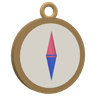
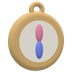
เมนู: ไอคอนวัตถุ 3D มนนุ่ม ขนาด 22px · เมนูเดี่ยว (หน้าแรก · สร้าง ticket · Presentation · Character) หน้าตาเท่าหัวหมวด · Namon ตาน่ารักแปะบนผิวตัว

Changed region(s): [[0.1111, 0.0278, 0.8889, 1.0]]

diff --git a/namon/namon-agent.js b/namon/namon-agent.js
@@ -12,8 +12,14 @@ const mesh = (g, m, cast = true) => { const o = new THREE.Mesh(g, m); o.castShad
 function blob(a = 0.98, b = 1.2, n = 2.25, seg = 96) {
   const pts = []
   for (let i = 0; i <= seg; i++) { const t = -Math.PI / 2 + (i / seg) * Math.PI, c = Math.cos(t), s = Math.sin(t); const x = a * Math.pow(Math.abs(c), 2 / n), y = b * Math.sign(s) * Math.pow(Math.abs(s), 2 / n); pts.push(new THREE.Vector2(Math.max(x, 0.0001) * (1 + 0.13 * (1 - (y + b) / (2 * b))), y + b + 0.16)) }
+  BLOB_PTS = pts
   return new THREE.LatheGeometry(pts, 128)
 }
+let BLOB_PTS = null
+const ZS = 0.86
+// จุดบนผิวตัว ณ (x, y) ด้านหน้า → ให้ตา แก้ม ปาก แปะบนผิวจริง (ผู้ใช้ 21 พ.ย. 69 "ตาต้องแปะอยู่บนก้อนสีน้ำเงิน")
+function radiusAt(y) { const P = BLOB_PTS; for (let i = 1; i < P.length; i++) { if ((P[i - 1].y - y) * (P[i].y - y) <= 0) { const t = (y - P[i - 1].y) / ((P[i].y - P[i - 1].y) || 1); return P[i - 1].x + (P[i].x - P[i - 1].x) * t } } return 0.5 }
+function onSurface(obj, x, y, lift = 0) { const r = radiusAt(y), zz = Math.sqrt(Math.max(0.0001, r * r - x * x)); obj.position.set(x, y, zz * ZS + lift); const ny = (radiusAt(y + 0.02) - radiusAt(y - 0.02)) / 0.04; obj.rotation.y = Math.atan2(x, zz * ZS); obj.rotation.x = -Math.atan(ny) * 0.9; return obj }
 
 
 // ของในมือ — จับคู่กับงานของ agent (ผู้ใช้ 21 พ.ย. 69 · แรงบันดาลใจ "ALL 16 TYPES")
@@ -31,22 +37,36 @@ export const PROPS = {
   mouse: { th: 'เมาส์', role: 'ทดสอบ usability' },
   flower: { th: 'ดอกไม้', role: 'ขอบคุณ / เสร็จงาน' },
 }
+
+// กล่องขอบมน (soft clay) — extrude สี่เหลี่ยมมุมมน + bevel
+function rbox(w, h, d, r = 0.06) {
+  r = Math.min(r, w / 2 - 0.001, h / 2 - 0.001, d / 2 - 0.001)
+  const x = w / 2 - r, y = h / 2 - r, sh = new THREE.Shape(), k = r * 0.6
+  sh.moveTo(-x, -y - 0.0001); sh.lineTo(x, -y - 0.0001); sh.lineTo(x, y); sh.lineTo(-x, y); sh.lineTo(-x, -y - 0.0001)
+  const g = new THREE.ExtrudeGeometry(sh, { depth: Math.max(0.001, d - 2 * r), bevelEnabled: true, bevelThickness: r, bevelSize: r, bevelSegments: 8, curveSegments: 8 })
+  g.translate(0, 0, -(d - 2 * r) / 2); g.computeVertexNormals(); return g
+}
+function rtri(w, h, d, r = 0.06) {
+  const sh = new THREE.Shape(); sh.moveTo(-w / 2 + r, 0); sh.lineTo(w / 2 - r, 0); sh.lineTo(0, h - r); sh.lineTo(-w / 2 + r, 0)
+  const g = new THREE.ExtrudeGeometry(sh, { depth: Math.max(0.001, d - 2 * r), bevelEnabled: true, bevelThickness: r, bevelSize: r, bevelSegments: 8 }); g.translate(0, 0, -(d - 2 * r) / 2); g.computeVertexNormals(); return g
+}
 function makeProp(id) {
   const g = new THREE.Group(), M = (c, o = {}) => clay(c, { roughness: 0.5, ...o })
   const add = (geo, mat, x = 0, y = 0, z = 0, rx = 0, ry = 0, rz = 0) => { const m = mesh(geo, mat); m.position.set(x, y, z); m.rotation.set(rx, ry, rz); g.add(m); return m }
-  if (id === 'magnifier') { add(new THREE.TorusGeometry(0.26, 0.05, 20, 48), M(0x2B2F5E), 0, 0.2, 0); add(new THREE.CircleGeometry(0.24, 40), new THREE.MeshPhysicalMaterial({ color: 0xDDEBFF, transparent: true, opacity: 0.45, roughness: 0.05 }), 0, 0.2, 0.01); add(new THREE.CylinderGeometry(0.045, 0.055, 0.5, 20), M(0x2B2F5E), 0.27, -0.2, 0, 0, 0, 0.6) }
-  if (id === 'paintbrush') { add(new THREE.CylinderGeometry(0.05, 0.07, 1.1, 20), M(0xC9814A), 0, 0, 0, 0, 0, -0.6); add(new THREE.CylinderGeometry(0.07, 0.07, 0.16, 20), M(0xC9CED6, { metalness: 0.5, roughness: 0.3 }), 0.32, 0.46, 0, 0, 0, -0.6); add(new THREE.ConeGeometry(0.08, 0.26, 20), M(0xE0607E), 0.43, 0.63, 0, 0, 0, -0.6) }
-  if (id === 'wrench') { const mt = M(0xB8BEC8, { metalness: 0.6, roughness: 0.3 }); add(new THREE.BoxGeometry(0.13, 0.9, 0.07), mt, 0, 0, 0, 0, 0, -0.5); const hd = add(new THREE.TorusGeometry(0.15, 0.07, 16, 32, Math.PI * 1.4), mt, 0.27, 0.43, 0, 0, 0, -0.5 + Math.PI * 0.8) }
-  if (id === 'book') { add(new THREE.BoxGeometry(0.75, 0.55, 0.14), M(0xE0607E), 0, 0, 0); add(new THREE.BoxGeometry(0.7, 0.5, 0.13), M(0xFFF8EE), 0.02, 0, 0.01); add(new THREE.BoxGeometry(0.75, 0.55, 0.02), M(0xC94A6A), 0, 0, 0.08) }
-  if (id === 'camera') { add(new THREE.BoxGeometry(0.72, 0.46, 0.3), M(0x2B2F5E), 0, 0, 0); add(new THREE.CylinderGeometry(0.15, 0.17, 0.18, 32), M(0x15171C, { roughness: 0.2 }), 0, -0.01, 0.22, Math.PI / 2); add(new THREE.CircleGeometry(0.11, 32), new THREE.MeshPhysicalMaterial({ color: 0x5C7BFF, roughness: 0.05, clearcoat: 1 }), 0, -0.01, 0.315); add(new THREE.BoxGeometry(0.16, 0.08, 0.12), M(0xC9CED6), -0.2, 0.27, 0) }
-  if (id === 'coffee') { add(new THREE.CylinderGeometry(0.4, 0.4, 0.04, 40), M(0xFFFFFF), 0, -0.2, 0); add(new THREE.CylinderGeometry(0.22, 0.17, 0.3, 32), M(0xFFFFFF), 0, -0.03, 0); add(new THREE.CircleGeometry(0.2, 32), M(0x6B4226), 0, 0.125, 0, -Math.PI / 2); add(new THREE.TorusGeometry(0.08, 0.025, 12, 24), M(0xFFFFFF), 0.24, -0.02, 0) }
-  if (id === 'map') { const cols = [0xF1E6C8, 0xE8DAB2, 0xF1E6C8]; [-0.27, 0, 0.27].forEach((x, i) => { add(new THREE.BoxGeometry(0.27, 0.62, 0.02), M(cols[i]), x, 0, i === 1 ? -0.04 : 0, 0, i === 1 ? 0 : (i ? -0.25 : 0.25)) }); [[-0.2, 0.1], [0.05, -0.08], [0.25, 0.14]].forEach(([x, y]) => add(new THREE.SphereGeometry(0.07, 16, 12), M(0x7BD8A4), x, y, 0.03).scale.set(1.4, 1, 0.3)) }
-  if (id === 'compass') { add(new THREE.CylinderGeometry(0.32, 0.32, 0.08, 40), M(0xC9A26A, { metalness: 0.4 }), 0, 0, 0, Math.PI / 2); add(new THREE.CircleGeometry(0.27, 40), M(0xFFF8EE), 0, 0, 0.045); add(new THREE.ConeGeometry(0.05, 0.22, 4), M(0xE0607E), 0, 0.1, 0.06); add(new THREE.ConeGeometry(0.05, 0.22, 4), M(0x5C7BFF), 0, -0.1, 0.06, 0, 0, Math.PI); add(new THREE.TorusGeometry(0.06, 0.02, 10, 20), M(0xC9A26A), 0, 0.37, 0) }
-  if (id === 'mic') { add(new THREE.SphereGeometry(0.17, 24, 18), M(0x9AA1AD, { metalness: 0.5, roughness: 0.35 }), 0.15, 0.32, 0); add(new THREE.CylinderGeometry(0.06, 0.05, 0.6, 20), M(0x15171C), 0, 0, 0, 0, 0, 0.45) }
-  if (id === 'chess') { const k = M(0x3B2A2A); add(new THREE.CylinderGeometry(0.24, 0.28, 0.12, 32), k, 0, -0.42, 0); add(new THREE.CylinderGeometry(0.12, 0.22, 0.5, 32), k, 0, -0.12, 0); add(new THREE.SphereGeometry(0.16, 24, 18), k, 0, 0.2, 0); add(new THREE.BoxGeometry(0.06, 0.2, 0.06), k, 0, 0.42, 0); add(new THREE.BoxGeometry(0.16, 0.06, 0.06), k, 0, 0.44, 0) }
-  if (id === 'mouse') { const mo = add(new THREE.SphereGeometry(0.25, 32, 24), M(0xF4F4F6), 0, 0, 0); mo.scale.set(0.8, 1.2, 0.55); add(new THREE.BoxGeometry(0.02, 0.14, 0.05), M(0xC9CED6), 0, 0.17, 0.13); add(new THREE.TorusGeometry(0.2, 0.015, 8, 24, Math.PI), M(0xC9CED6), 0.18, 0.28, 0) }
-  if (id === 'flower') { add(new THREE.CylinderGeometry(0.025, 0.03, 0.8, 12), M(0x6BAE3C), 0, -0.1, 0); for (let i = 0; i < 6; i++) { const a = (i / 6) * Math.PI * 2; add(new THREE.SphereGeometry(0.1, 20, 14), M(0xF58FB5), Math.cos(a) * 0.13, 0.36 + Math.sin(a) * 0.13, 0).scale.set(1, 1, 0.45) } add(new THREE.SphereGeometry(0.08, 20, 14), M(0xFFD66B), 0, 0.36, 0.03); add(new THREE.SphereGeometry(0.09, 16, 12), M(0x7BC24A), 0.1, -0.05, 0).scale.set(1.6, 0.6, 0.4) }
-  if (id === 'house') { add(new THREE.BoxGeometry(0.62, 0.46, 0.5), M(0xFFF3E2), 0, -0.12, 0); const roof = add(new THREE.ConeGeometry(0.55, 0.36, 4), M(0xE0607E), 0, 0.29, 0, 0, Math.PI / 4, 0); roof.scale.set(1, 1, 0.8); add(new THREE.BoxGeometry(0.16, 0.26, 0.04), M(0x5C7BFF), 0, -0.22, 0.26); add(new THREE.BoxGeometry(0.13, 0.13, 0.03), M(0xC6F432), 0.18, -0.06, 0.26) }
+  const cap = (r, len, c, x, y, z, rz = 0) => add(new THREE.CapsuleGeometry(r, len, 10, 24), M(c), x, y, z, 0, 0, rz)
+  if (id === 'magnifier') { add(new THREE.TorusGeometry(0.24, 0.085, 24, 48), M(0x6C7BF2), 0, 0.2, 0); add(new THREE.SphereGeometry(0.2, 32, 24), new THREE.MeshPhysicalMaterial({ color: 0xE6EEFF, transparent: true, opacity: 0.6, roughness: 0.1 }), 0, 0.2, 0).scale.set(1, 1, 0.25); cap(0.08, 0.32, 0x6C7BF2, 0.28, -0.2, 0, 0.62) }
+  if (id === 'paintbrush') { cap(0.085, 0.8, 0xE7A877, -0.05, -0.08, 0, -0.6); add(new THREE.CylinderGeometry(0.1, 0.1, 0.16, 24), M(0xD6DAE2, { roughness: 0.35 }), 0.27, 0.38, 0, 0, 0, -0.6); const tip = add(new THREE.SphereGeometry(0.12, 24, 18), M(0xF28FB2), 0.4, 0.57, 0); tip.scale.set(0.9, 1.5, 0.9); tip.rotation.z = -0.6 }
+  if (id === 'wrench') { cap(0.09, 0.62, 0xA9B4C9, -0.04, -0.1, 0, -0.5); const hd = add(new THREE.TorusGeometry(0.17, 0.1, 20, 36, Math.PI * 1.45), M(0xA9B4C9), 0.24, 0.4, 0, 0, 0, Math.PI * 0.3) }
+  if (id === 'book') { add(rbox(0.78, 0.6, 0.24, 0.08), M(0xF28FB2), 0, 0, 0); add(rbox(0.68, 0.52, 0.2, 0.05), M(0xFFF6EA), 0.05, 0, 0.0); add(rbox(0.3, 0.08, 0.04, 0.02), M(0xFFFFFF), -0.05, 0.12, 0.125) }
+  if (id === 'camera') { add(rbox(0.8, 0.52, 0.36, 0.13), M(0x7C8CF8), 0, 0, 0); add(new THREE.TorusGeometry(0.15, 0.06, 20, 36), M(0x4A57C9), 0, -0.01, 0.19); add(new THREE.SphereGeometry(0.13, 32, 24), new THREE.MeshPhysicalMaterial({ color: 0x2B3170, roughness: 0.1, clearcoat: 1 }), 0, -0.01, 0.17).scale.set(1, 1, 0.5); add(rbox(0.18, 0.1, 0.16, 0.04), M(0xC6F432), -0.22, 0.29, 0) }
+  if (id === 'coffee') { add(new THREE.CylinderGeometry(0.4, 0.36, 0.06, 40), M(0xFFFFFF), 0, -0.2, 0); add(new THREE.TorusGeometry(0.37, 0.03, 12, 40), M(0xFFFFFF), 0, -0.17, 0, Math.PI / 2); add(new THREE.CylinderGeometry(0.22, 0.17, 0.32, 32), M(0xFFFFFF), 0, -0.02, 0); add(new THREE.CircleGeometry(0.2, 32), M(0xB07A50), 0, 0.14, 0, -Math.PI / 2); add(new THREE.TorusGeometry(0.21, 0.025, 12, 32), M(0xFFFFFF), 0, 0.14, 0, Math.PI / 2); add(new THREE.TorusGeometry(0.09, 0.035, 12, 24), M(0xFFFFFF), 0.25, -0.02, 0) }
+  if (id === 'map') { [-0.27, 0, 0.27].forEach((x, i) => add(rbox(0.28, 0.64, 0.06, 0.025), M(i === 1 ? 0xEADBB3 : 0xF5E9C9), x, 0, i === 1 ? -0.03 : 0, 0, i === 1 ? 0 : (i ? -0.25 : 0.25))); [[-0.2, 0.1], [0.05, -0.08], [0.25, 0.14]].forEach(([x, y]) => add(new THREE.SphereGeometry(0.075, 20, 14), M(0x8FD9AE), x, y, 0.04).scale.set(1.4, 1, 0.35)) }
+  if (id === 'compass') { add(new THREE.CylinderGeometry(0.3, 0.3, 0.14, 48), M(0xE2B979), 0, 0, 0, Math.PI / 2); add(new THREE.TorusGeometry(0.3, 0.06, 20, 48), M(0xE2B979), 0, 0, 0); add(new THREE.CircleGeometry(0.25, 40), M(0xFFF8EE), 0, 0, 0.075); add(new THREE.SphereGeometry(0.06, 16, 12), M(0xF28FB2), 0, 0.1, 0.08).scale.set(0.8, 1.8, 0.5); add(new THREE.SphereGeometry(0.06, 16, 12), M(0x7C8CF8), 0, -0.1, 0.08).scale.set(0.8, 1.8, 0.5); add(new THREE.TorusGeometry(0.07, 0.03, 12, 24), M(0xE2B979), 0, 0.38, 0) }
+  if (id === 'mic') { add(new THREE.SphereGeometry(0.2, 32, 24), M(0xB9C0CC), 0.16, 0.32, 0); cap(0.08, 0.42, 0x4A4F63, 0, 0, 0, 0.45) }
+  if (id === 'chess') { const k = M(0x6B5A5A); add(new THREE.CylinderGeometry(0.24, 0.28, 0.12, 32), k, 0, -0.42, 0); add(new THREE.TorusGeometry(0.25, 0.05, 12, 32), k, 0, -0.38, 0, Math.PI / 2); add(new THREE.CylinderGeometry(0.12, 0.22, 0.5, 32), k, 0, -0.12, 0); add(new THREE.SphereGeometry(0.17, 24, 18), k, 0, 0.2, 0); cap(0.045, 0.12, 0x6B5A5A, 0, 0.44, 0); cap(0.045, 0.1, 0x6B5A5A, 0, 0.46, 0, Math.PI / 2) }
+  if (id === 'mouse') { const mo = add(new THREE.SphereGeometry(0.25, 32, 24), M(0xF7F7FA), 0, 0, 0); mo.scale.set(0.82, 1.2, 0.6); add(rbox(0.035, 0.14, 0.06, 0.015), M(0xC9CED6), 0, 0.17, 0.14); add(new THREE.TorusGeometry(0.2, 0.025, 10, 24, Math.PI), M(0xC9CED6), 0.18, 0.28, 0) }
+  if (id === 'flower') { cap(0.035, 0.7, 0x86C25A, 0, -0.1, 0); for (let i = 0; i < 6; i++) { const a = (i / 6) * Math.PI * 2; add(new THREE.SphereGeometry(0.11, 24, 16), M(0xF7A3C2), Math.cos(a) * 0.14, 0.38 + Math.sin(a) * 0.14, 0).scale.set(1, 1, 0.55) } add(new THREE.SphereGeometry(0.09, 20, 14), M(0xFFDA77), 0, 0.38, 0.04); add(new THREE.SphereGeometry(0.1, 16, 12), M(0x9AD36A), 0.12, -0.05, 0).scale.set(1.6, 0.6, 0.45) }
+  if (id === 'house') { add(rbox(0.66, 0.5, 0.52, 0.09), M(0xFFF1DC), 0, -0.13, 0); add(rtri(0.86, 0.42, 0.6, 0.06), M(0xF28FB2), 0, 0.1, 0); add(rbox(0.17, 0.26, 0.06, 0.04), M(0x7C8CF8), 0, -0.25, 0.27); add(rbox(0.14, 0.14, 0.05, 0.03), M(0xC6F432), 0.19, -0.07, 0.27) }
   return g
 }
 
@@ -55,19 +75,20 @@ function build(pose, prop) {
   const eyeM = new THREE.MeshPhysicalMaterial({ color: C.eye, roughness: 0.18, clearcoat: 1 }), hiM = new THREE.MeshBasicMaterial({ color: 0xffffff })
   const root = new THREE.Group(), hop = new THREE.Group(), bodyG = new THREE.Group(); root.add(hop); hop.add(bodyG)
   const R = { root, hop, bodyG, eyes: [], extras: [] }
-  const body = mesh(blob(), clay(C.body)); body.scale.set(1, 1, 0.86); bodyG.add(body)
+  const body = mesh(blob(), clay(C.body)); body.scale.set(1, 1, ZS); bodyG.add(body)
   // ตาจุดดำ (ไม่มีตาขาว) ตามภาพอ้างอิง 21 พ.ย. 69
   const eye = (x, look = [0, 0], squash = 1) => {
     const g = new THREE.Group()
-    const rim = mesh(new THREE.SphereGeometry(0.118, 40, 32), clay(C.white, { roughness: 0.35 }), false); rim.scale.set(1, 1.05 * squash, 0.4); g.add(rim)
-    const e = mesh(new THREE.SphereGeometry(0.096, 40, 32), eyeM, false); e.scale.set(1, 1.05 * squash, 0.45); e.position.set(look[0] * 0.5, look[1] * 0.5 * squash, 0.025); g.add(e)
-    const h = new THREE.Mesh(new THREE.SphereGeometry(0.03, 14, 10), hiM); h.position.set(look[0] * 0.5 + 0.035, look[1] * 0.5 * squash + 0.04 * squash, 0.07); g.add(h)
-    g.position.set(x * 1.05, 1.98, 0.86); R.eyes.push(g); return g
+    // ตาน่ารัก: วงรีดำเงา สูงกว่ากว้าง + ประกายใหญ่/เล็ก 2 จุด (ผู้ใช้ 21 พ.ย. 69)
+    const e = mesh(new THREE.SphereGeometry(0.1, 40, 32), new THREE.MeshPhysicalMaterial({ color: 0x14152A, roughness: 0.12, clearcoat: 1, clearcoatRoughness: 0.05 }), false); e.scale.set(0.92, 1.28 * squash, 0.45); e.position.set(look[0] * 0.5, look[1] * 0.5 * squash, 0.02); g.add(e)
+    const h1 = new THREE.Mesh(new THREE.SphereGeometry(0.036, 16, 12), hiM); h1.position.set(look[0] * 0.5 + 0.03, look[1] * 0.5 * squash + 0.05 * squash, 0.065); g.add(h1)
+    const h2 = new THREE.Mesh(new THREE.SphereGeometry(0.016, 12, 10), hiM); h2.position.set(look[0] * 0.5 - 0.03, look[1] * 0.5 * squash - 0.045 * squash, 0.06); g.add(h2)
+    onSurface(g, x * 1.05, 1.98, -0.01); R.eyes.push(g); return g
   }
-  const arcEye = (x, up = true) => { const t = new THREE.Mesh(new THREE.TorusGeometry(0.085, 0.024, 16, 48, Math.PI), eyeM); t.position.set(x * 1.05, up ? 1.95 : 2.0, 0.9); if (!up) t.rotation.z = Math.PI; return t }
+  const arcEye = (x, up = true) => { const g = new THREE.Group(); const t = new THREE.Mesh(new THREE.TorusGeometry(0.085, 0.024, 16, 48, Math.PI), eyeM); if (!up) t.rotation.z = Math.PI; g.add(t); onSurface(g, x * 1.05, up ? 1.95 : 2.0, 0.005); return g }
   // ปากขีดสั้น หางงอนสองข้าง
-  const mouth = () => { const g = new THREE.Group(); const bar = new THREE.Mesh(new THREE.CapsuleGeometry(0.016, 0.1, 6, 12), eyeM); bar.rotation.z = Math.PI / 2; g.add(bar); for (const sx of [-1, 1]) { const tk = new THREE.Mesh(new THREE.CapsuleGeometry(0.015, 0.035, 6, 12), eyeM); tk.position.set(sx * 0.066, 0.026, 0); g.add(tk) } g.position.set(0.0, 1.84, 0.93); g.scale.setScalar(0.8); return g }
-  for (const sx of [-1, 1]) { const ch = mesh(new THREE.SphereGeometry(0.09, 32, 24), clay(C.cheek, { roughness: 0.7, transparent: true, opacity: 0.85 }), false); ch.scale.set(1.2, 0.7, 0.3); ch.position.set(sx * 0.42, 1.8, 0.84); bodyG.add(ch) }
+  const mouth = () => { const t = new THREE.Mesh(new THREE.TorusGeometry(0.05, 0.016, 12, 32, Math.PI), eyeM); t.rotation.z = Math.PI; const g = new THREE.Group(); g.add(t); onSurface(g, 0, 1.86, 0.005); return g }
+  for (const sx of [-1, 1]) { const ch = mesh(new THREE.SphereGeometry(0.09, 32, 24), clay(C.cheek, { roughness: 0.7, transparent: true, opacity: 0.85 }), false); ch.scale.set(1.2, 0.7, 0.3); onSurface(ch, sx * 0.42, 1.8, -0.01); bodyG.add(ch) }
   // ใบโคลเวอร์ 4 แฉก (หัวใจ) สีเขียวมะนาว
   const sprout = new THREE.Group(); sprout.position.set(0.38, 2.42, 0); sprout.rotation.z = -0.28
   const stem = mesh(new THREE.CylinderGeometry(0.028, 0.04, 0.56, 20), clay(C.cloverDark)); stem.position.set(0.03, 0.26, 0); stem.rotation.z = -0.1; sprout.add(stem)

diff --git a/index.html b/index.html
@@ -292,7 +292,9 @@
   /* ซ่อนเมนูซ้าย (จอ ≥1024) เหลือแถบแคบ = ปุ่มเปิด · ผู้ใช้ 15 พ.ย. 69 "กดซ่อน sidemenu ได้ เพื่อพื้นที่ content เยอะๆ" */
   .side-top { display: flex; align-items: center; gap: var(--dim-space-200, 8px); margin-bottom: var(--dim-space-200, 8px); }
   .side-top .side-brand { flex: 1 1 auto; min-width: 0; margin-bottom: 0; }
-  .nav-namon { width: 30px; height: 30px; flex: none; object-fit: contain; margin: -4px 0; transition: transform 150ms ease-out; }
+  .nav-namon { width: 22px; height: 22px; flex: none; object-fit: contain; transition: transform 150ms ease-out; }
+  .side a.nav.nav-top { color: var(--text-content-default, #363B3F); font-weight: var(--type-weight-medium, 500); } /* เมนูเดี่ยวระดับบน = หน้าตาเดียวกับหัวหมวด (ผู้ใช้ 21 พ.ย. 69) */
+  .side a.nav.nav-top.is-active { color: var(--text-brandPrimary-default, #3F5BFA); }
   .side a.nav:hover .nav-namon, .grp-h:hover .nav-namon { transform: translateY(-2px) rotate(-8deg) scale(1.08); }
   .gtile .nav-namon.card-icon { width: 44px; height: 44px; margin: 0; }
   .side-logo { display: block; height: var(--dim-size-700, 36px); width: auto; max-width: 100%; }
@@ -796,7 +798,7 @@
   var cards = [].slice.call(page.querySelectorAll('section.group .cards:not([hidden]) a.card'));
   var ICON = { 'g-design': 'palette', 'g-plan': 'view_timeline', 'g-tor': 'checklist', 'g-shots': 'photo_library', 'g-rules': 'gavel', 'g-flow': 'account_tree', 'g-ut': 'ads_click', 'g-ticket': 'confirmation_number', 'g-pres': 'slideshow', 'g-char': 'face', 'g-app': 'desktop_windows' };
   var NAMON_ICON = { home: 'obj-house', 'g-design': 'obj-paintbrush', 'g-plan': 'obj-compass', 'g-tor': 'obj-wrench', 'g-shots': 'obj-camera', 'g-rules': 'obj-book', 'g-flow': 'obj-map', 'g-ut': 'obj-mouse', 'g-ticket': 'obj-magnifier', 'g-pres': 'obj-mic', 'g-char': 'obj-flower', 'g-app': 'obj-coffee' };
-  var ni = function (k, fallback, cls) { var f = NAMON_ICON[k]; return f ? '<img class="nav-namon' + (cls ? ' ' + cls : '') + '" src="assets/namon-icons/' + f + '.png?v=1" alt="" aria-hidden="true">' : ms(fallback, cls); };
+  var ni = function (k, fallback, cls) { var f = NAMON_ICON[k]; return f ? '<img class="nav-namon' + (cls ? ' ' + cls : '') + '" src="assets/namon-icons/' + f + '.png?v=2" alt="" aria-hidden="true">' : ms(fallback, cls); };
   
   var esc = function (t) { return String(t).replace(/[&<>"]/g, function (c) { return { '&': '&amp;', '<': '&lt;', '>': '&gt;', '"': '&quot;' }[c]; }); };
   var ms = function (n, c) { return '<span class="material-symbols-outlined' + (c ? ' ' + c : '') + '" aria-hidden="true">' + n + '</span>'; };
@@ -882,7 +884,7 @@
   document.addEventListener('keydown', function (e) { if (e.key === 'Escape') setOpen(false); });
   var ICON = { 'g-design': 'palette', 'g-plan': 'view_timeline', 'g-tor': 'checklist', 'g-shots': 'photo_library', 'g-rules': 'gavel', 'g-flow': 'account_tree', 'g-ut': 'ads_click', 'g-ticket': 'confirmation_number', 'g-pres': 'slideshow', 'g-char': 'face', 'g-app': 'desktop_windows' };
   var NAMON_ICON = { home: 'obj-house', 'g-design': 'obj-paintbrush', 'g-plan': 'obj-compass', 'g-tor': 'obj-wrench', 'g-shots': 'obj-camera', 'g-rules': 'obj-book', 'g-flow': 'obj-map', 'g-ut': 'obj-mouse', 'g-ticket': 'obj-magnifier', 'g-pres': 'obj-mic', 'g-char': 'obj-flower', 'g-app': 'obj-coffee' };
-  var ni = function (k, fallback, cls) { var f = NAMON_ICON[k]; return f ? '<img class="nav-namon' + (cls ? ' ' + cls : '') + '" src="assets/namon-icons/' + f + '.png?v=1" alt="" aria-hidden="true">' : ms(fallback, cls); };
+  var ni = function (k, fallback, cls) { var f = NAMON_ICON[k]; return f ? '<img class="nav-namon' + (cls ? ' ' + cls : '') + '" src="assets/namon-icons/' + f + '.png?v=2" alt="" aria-hidden="true">' : ms(fallback, cls); };
   
   var ms = function (n, c) { return '<span class="material-symbols-outlined' + (c ? ' ' + c : '') + '" aria-hidden="true">' + n + '</span>'; };
   var isLocal = function (href) { var u = new URL(href, location.href); return u.origin === location.origin; };
@@ -931,13 +933,13 @@
     askCode(function () { el.click(); });
   }, true);
   var groups = [];
-  list.insertAdjacentHTML('beforeend', '<li><a class="nav" href="#" data-home="1">' + ni('home', 'home') + '<span>หน้าแรก</span></a></li>');
+  list.insertAdjacentHTML('beforeend', '<li><a class="nav nav-top" href="#" data-home="1">' + ni('home', 'home') + '<span>หน้าแรก</span></a></li>');
   [].slice.call(page.querySelectorAll('section.group')).forEach(function (sec) {
     var h = sec.querySelector('h2'); if (!h) return;
     /* หมวดที่มีการ์ดเดียว (data-nav-solo) = ลิงก์ระดับบนในเมนูซ้าย ไม่ใช่กลุ่มพับได้ · "สร้าง ticket" (ผู้ใช้ 19 พ.ย. 69) */
     if (sec.hasAttribute('data-nav-solo')) {
       var sc = sec.querySelector('a.card');
-      if (sc) { var sh = sc.getAttribute('href'), sl = document.createElement('li'); sl.innerHTML = '<a class="nav" href="#d=' + encodeURIComponent(sh) + '" data-doc="' + sh + '">' + ni(h.id, (sc.querySelector('.card-icon') || {}).textContent || 'description') + '<span>' + h.textContent + '</span></a>'; list.appendChild(sl); }
+      if (sc) { var sh = sc.getAttribute('href'), sl = document.createElement('li'); sl.innerHTML = '<a class="nav nav-top" href="#d=' + encodeURIComponent(sh) + '" data-doc="' + sh + '">' + ni(h.id, (sc.querySelector('.card-icon') || {}).textContent || 'description') + '<span>' + h.textContent + '</span></a>'; list.appendChild(sl); }
       return;
     }
     var li = document.createElement('li'); li.className = 'grp';
